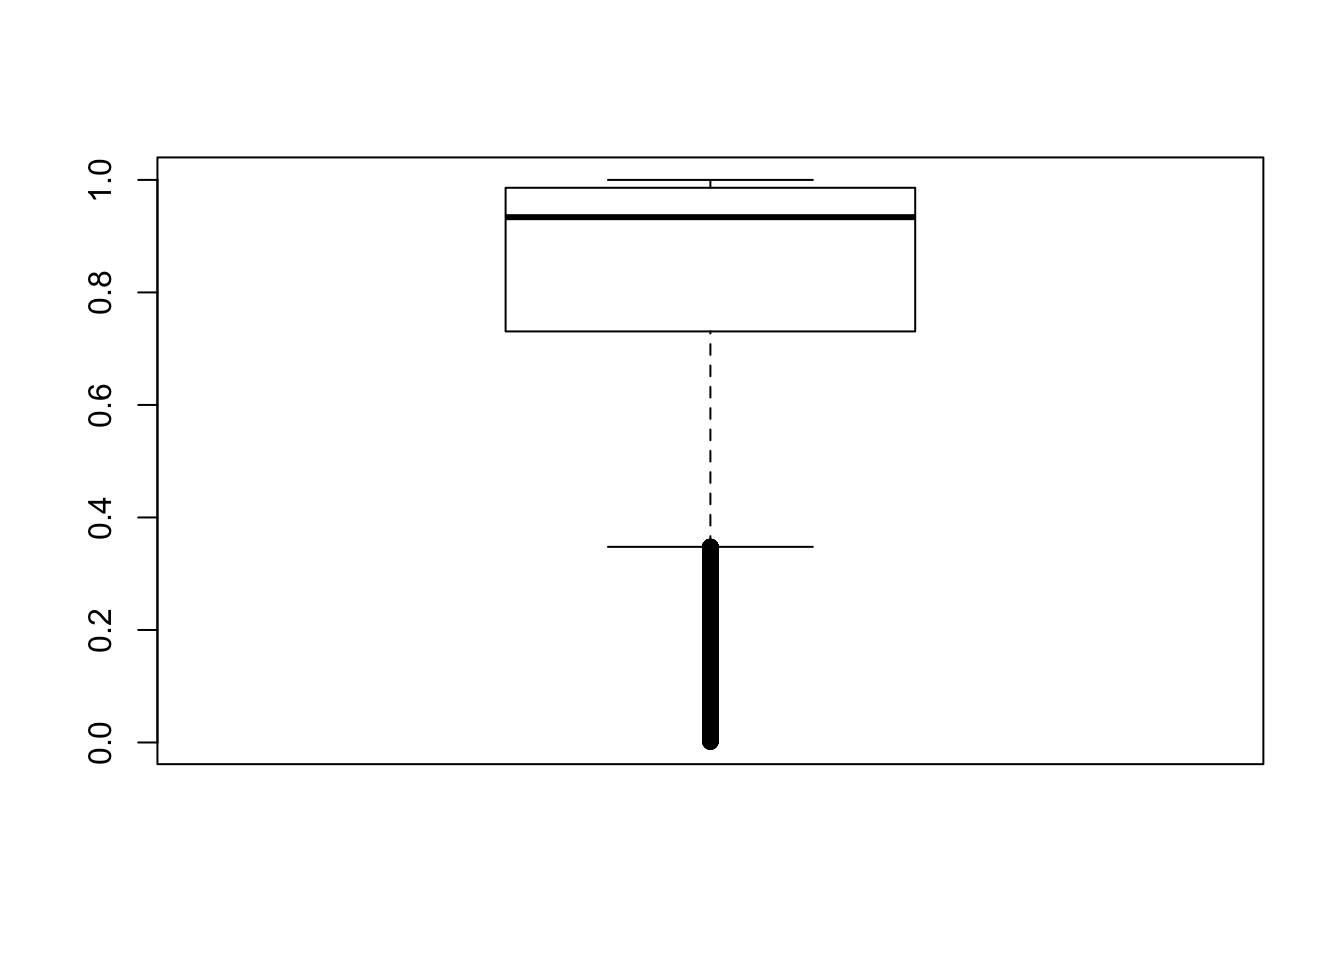
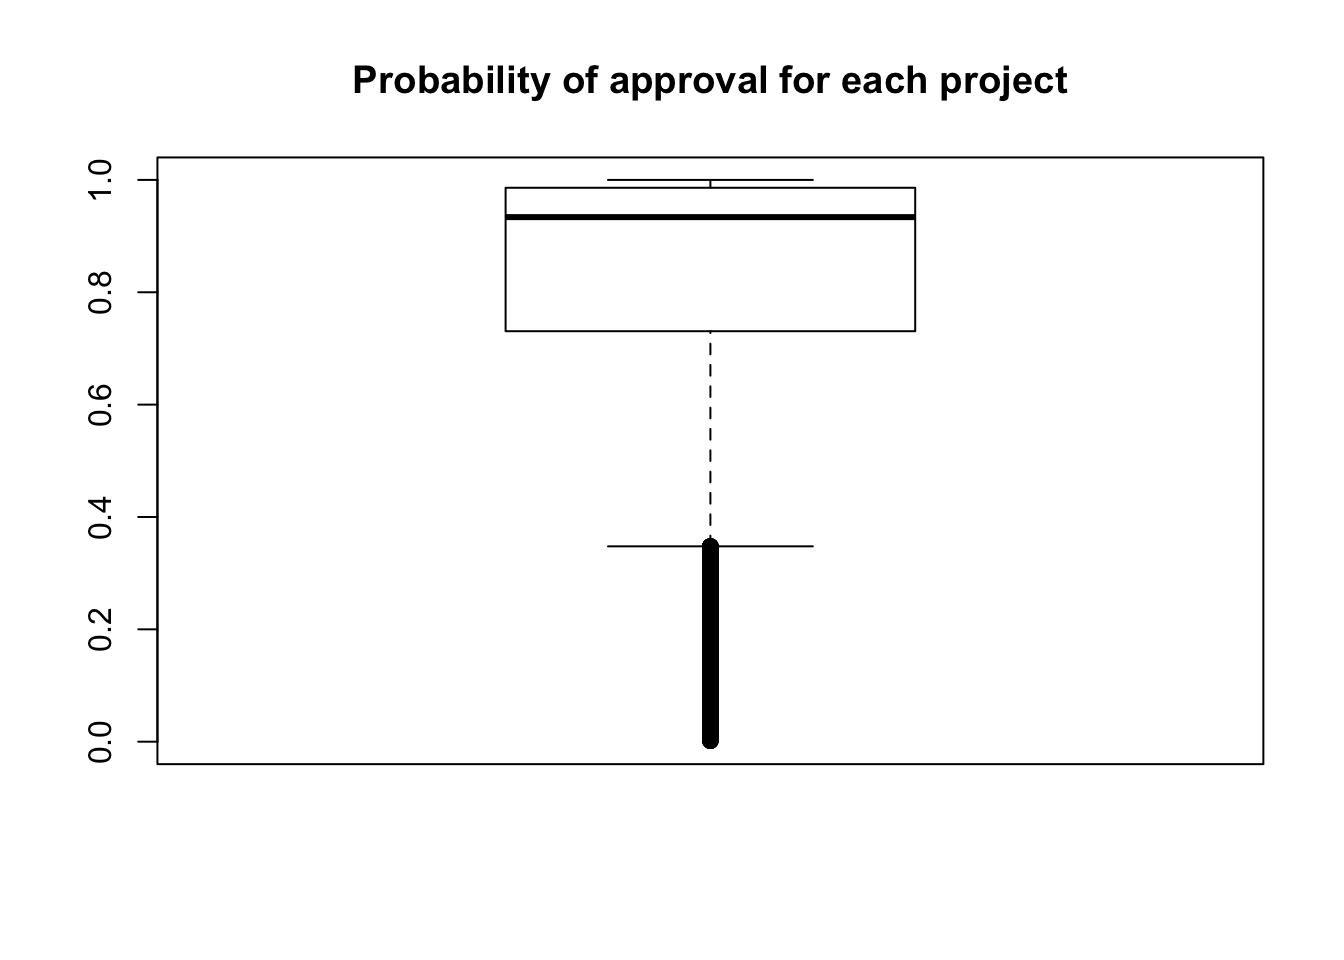
Build site.

Changed region(s): [[0.25, 0.0625, 0.8125, 0.125], [0.0625, 0.75, 0.0938, 0.8125], [0.0625, 0.6562, 0.0938, 0.6875]]

diff --git a/docs/Preliminary_analysis_xgboost.html b/docs/Preliminary_analysis_xgboost.html
@@ -324,7 +324,7 @@ shared across the workflowr files. -->
 <p><strong>Last updated:</strong> 2018-04-15</p>
 <!-- Insert the code version (Git commit SHA1) if Git repository exists and R
  package git2r is installed -->
-<p><strong>Code version:</strong> 921bc6c</p>
+<p><strong>Code version:</strong> 19370f1</p>
 <div id="introduction" class="section level1">
 <h1>Introduction</h1>
 <p>The goal of this script is to run XGBoost on a model.</p>
@@ -613,9 +613,13 @@ pred &lt;- predict(bst, test_data)
 make_csv &lt;- as.data.frame(cbind(testing_data$id, pred), stringsAsFactors = FALSE)
 colnames(make_csv) &lt;- cbind(&quot;id&quot;, &quot;project_is_approved&quot;)
 
-boxplot(as.numeric(make_csv$project_is_approved))</code></pre>
+boxplot(as.numeric(make_csv$project_is_approved), ylim = c(0,1), main = &quot;Probability of approval for each project&quot;)</code></pre>
 <p><img src="figure/Preliminary_analysis_xgboost.Rmd/unnamed-chunk-6-1.png" width="672" style="display: block; margin: auto;" /></p>
-<pre class="r"><code>order_id &lt;- make_csv[order(match(make_csv$id, test$id)), ]</code></pre>
+<pre class="r"><code>order_id &lt;- make_csv[order(match(make_csv$id, test$id)), ]
+
+write.csv(order_id, &quot;../data/sample_submission.csv&quot;, row.names = FALSE, sep=&quot;\t&quot;)</code></pre>
+<pre><code>Warning in write.csv(order_id, &quot;../data/sample_submission.csv&quot;, row.names =
+FALSE, : attempt to set &#39;sep&#39; ignored</code></pre>
 <div id="session-information" class="section level2">
 <h2>Session information</h2>
 <!-- Insert the session information into the document -->
